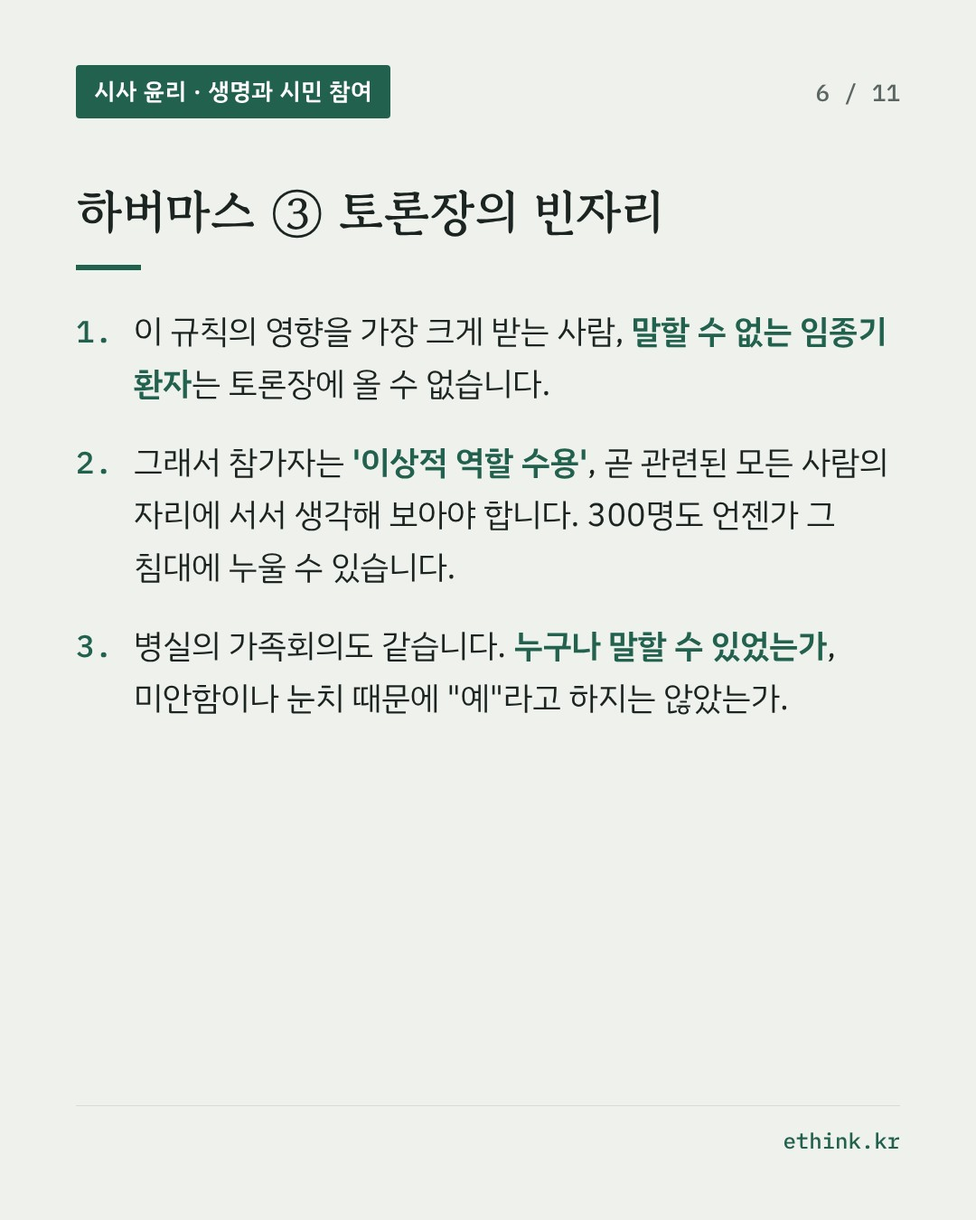
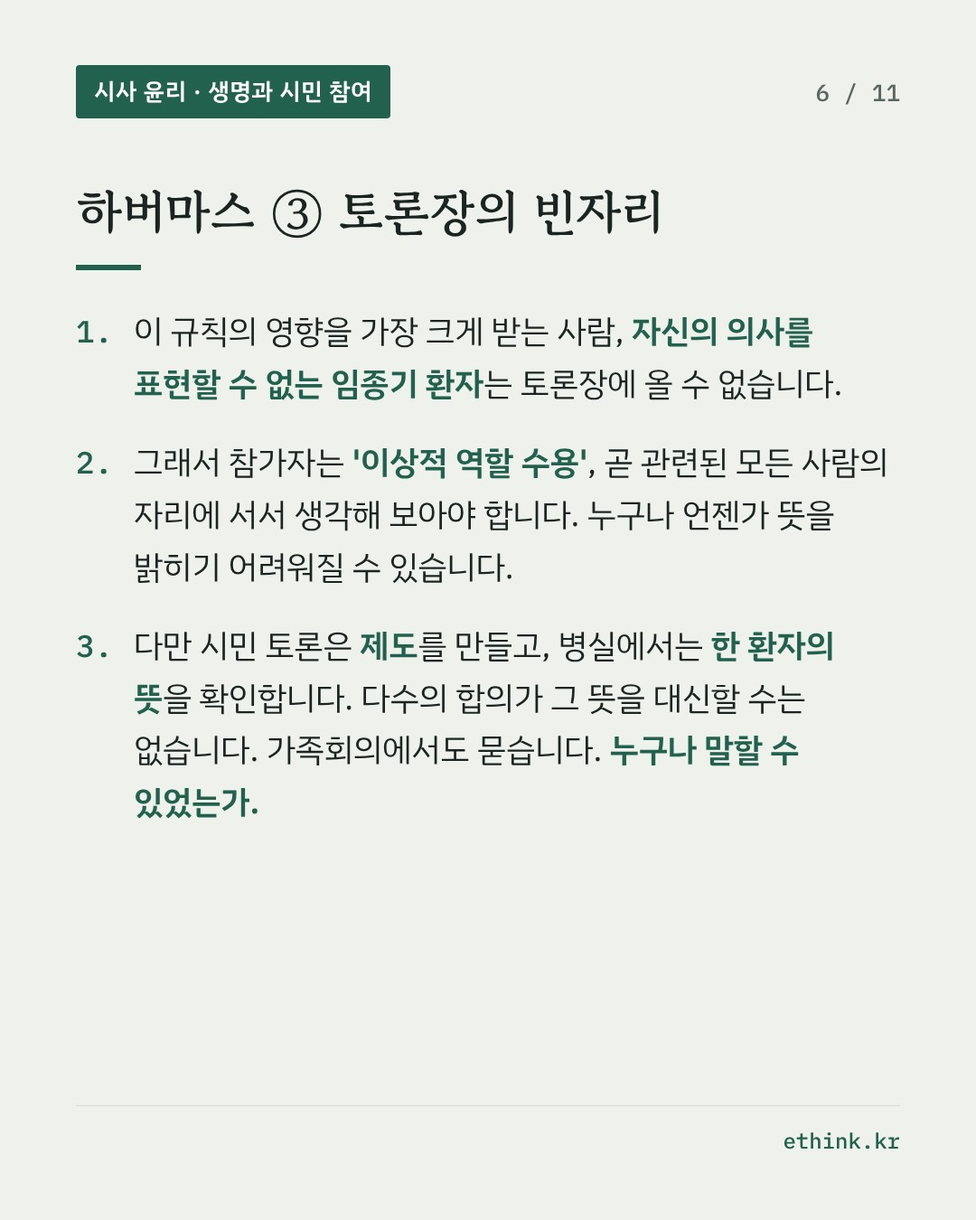
11.6 초안 수정: 검토 반영(연명의료 정의·돌봄 지속, 통계 범위·비율, 대리 결정 표현, 하버마스 기준 정리·두 층위, 장자 비유, 물고기 대화, 경험담·평가), 카드·캡션
Claude-Session: https://claude.ai/code/session_01KzEbiNcsfFZKgwJ7neneY9

diff --git a/_items/2026-11-06/1.md b/_items/2026-11-06/1.md
@@ -5,7 +5,7 @@ section: 생명과 시민 참여
 kicker: 국내 · 11월 7~8일 시민 숙의 토론
 title: 삶의 마지막 치료, 멈출 때를 누가 정해야 할까?
 question: 스스로 뜻을 밝힐 수 없는 환자의 연명의료를 멈출지, 누가 어떤 절차로 정해야 할까?
-caution: 이 숙의 토론은 11월 7~8일에 열리고, 결과는 11월 말 의료혁신위원회에 보고됩니다. 토론 결과가 곧 법이 되지는 않습니다. 정부는 연내에 제도 개선 권고안을 낼 계획입니다. 연명의료 중단은 지금 법에서 '임종 과정에 있는 환자'에게만 허용되며, 안락사나 조력사망과 다릅니다. 둘을 섞지 않습니다. 결정 근거의 비율(본인 서류 약 45%, 가족 진술·합의 약 55%)은 2026년 8월 말까지의 누적 통계입니다. 가족이 정한 경우를 '환자의 뜻이 무시된 경우'로 단정하지 않습니다. 가족 진술은 환자가 평소 밝힌 뜻을 확인하는 절차입니다. 장자의 생사관은 죽음을 대하는 태도에 관한 생각입니다. 연명의료를 멈춰야 한다는 주장의 근거로 쓰지 않습니다. 최근 가족을 떠나보낸 학생이 있을 수 있으니 사례를 고를 때 살피고, 개인 경험을 말하게 하지 않습니다.
+caution: 이 숙의 토론은 11월 7~8일에 열리고, 결과는 11월 말 의료혁신위원회에 보고됩니다. 토론 결과가 곧 법이 되지는 않습니다. 정부는 연내에 제도 개선 권고안을 낼 계획입니다. 연명의료 중단은 지금 법에서 '임종 과정에 있는 환자'에게만 허용되며, 안락사나 조력사망과 다릅니다. 둘을 섞지 않습니다. 결정 근거의 비율(본인 문서 44.8%, 가족 진술·합의 55.2%)은 2026년 8월 말까지의 누적 이행 통계이며, 이행 환자 전체를 나눈 것입니다. 연명의료를 하지 않거나 멈춰도 통증 완화, 영양분·물 공급, 산소의 단순 공급은 중단하지 않습니다. 환자를 돌보는 일 자체를 멈추는 것으로 가르치지 않습니다. 가족이 정한 경우를 '환자의 뜻이 무시된 경우'로 단정하지 않습니다. 가족 진술은 환자가 평소 밝힌 뜻을 확인하는 절차입니다. 장자의 생사관은 죽음을 대하는 태도에 관한 생각입니다. 연명의료를 멈춰야 한다는 주장의 근거로 쓰지 않습니다. 최근 가족을 떠나보낸 학생이 있을 수 있으니 사례를 고를 때 살피고, 개인 경험을 말하게 하지 않습니다.
 subjects: [『현대사회와 윤리』 · 생명 윤리와 생태 윤리, 『현대사회와 윤리』 · 평화와 공존의 윤리, 『인문학과 윤리』 · 서로 다른 의견을 어떻게 포용할 수 있을까, 『인문학과 윤리』 · 자유와 평등, 『윤리문제 탐구』 · 시민의 삶과 윤리적 탐구]
 lenses: [하버마스 · 담론 윤리와 이상적 담화 상황, 장자 · 삶과 죽음을 대하는 태도]
 sources:
@@ -19,27 +19,33 @@ sources:
     url: https://www.swn.kr/2026/10/26/%EC%97%B0%EB%AA%85%EC%9D%98%EB%A3%8C%EA%B2%B0%EC%A0%95%EC%A0%9C%EB%8F%84-%EA%B0%9C%EC%84%A0-%EB%B0%A9%ED%96%A5-%EB%85%BC%EC%9D%98%EC%83%9D%EC%95%A0-%EB%A7%90-%EC%9D%98%EB%A3%8C%ED%98%84/
   - name: 간호사신문 (10.16)
     url: https://www.nursenews.co.kr/news/articleView.html?idxno=45222
+  - name: 뉴시스 (9.10, 국립연명의료관리기관 8월 말 통계)
+    url: https://www.newsis.com/view/NISX20260910_0003784493
   - name: 와이드경제 (9.11, 국립연명의료관리기관 8월 말 통계)
     url: https://www.widedaily.com/news/articleView.html?idxno=300963
   - name: 국가법령정보센터 「호스피스ㆍ완화의료 및 임종과정에 있는 환자의 연명의료결정에 관한 법률」
     url: https://www.law.go.kr/법령/호스피스ㆍ완화의료및임종과정에있는환자의연명의료결정에관한법률
+  - name: 국립연명의료관리기관 「연명의료중단등결정 이행」 안내
+    url: https://www.lst.go.kr/userinfo/medicalperson/suspensionPending.do
 og_image: /assets/og/2026-11-06-1.jpg
 ---
 ##### 무슨 일이 있었나
 
-11월 7일과 8일, 시민 300여 명이 서울대학교 시흥캠퍼스에 모여 1박 2일 동안 삶의 마지막 의료를 토론합니다. 국무총리 직속 자문기구인 의료혁신위원회의 시민패널 숙의토론회입니다. 참가자는 지역·성별·나이별 인구 비율을 고려해 뽑았습니다. 이달 초부터 자료집과 온라인 강의로 미리 공부했고, 당일에는 전문가 발제와 질의응답을 들은 뒤 모둠별로 토의합니다. 쟁점은 세 가지입니다. 연명의료를 하지 않거나 멈출 수 있는 시점, 환자가 뜻을 밝힐 수 없을 때 대신 정할 사람, 삶의 마지막에 받고 싶은 의료와 돌봄입니다. 결과는 11월 말 위원회에 보고되고, 보건복지부는 연내에 제도 개선 권고안을 낼 계획입니다.
+11월 7일과 8일, 시민 300여 명이 서울대학교 시흥캠퍼스에 모여 1박 2일 동안 삶의 마지막 의료를 토론합니다. 국무총리 직속 자문기구인 의료혁신위원회의 시민패널 숙의토론회입니다. 참가자는 지역·성별·나이별 인구 비율을 고려해 뽑았습니다. 10월 초부터 자료집과 온라인 강의로 미리 공부했고, 당일에는 전문가 발제와 질의응답을 들은 뒤 모둠별로 토의합니다. 쟁점은 세 가지입니다. 연명의료를 하지 않거나 멈출 수 있는 시점, 환자가 뜻을 밝힐 수 없을 때 대신 정할 사람, 삶의 마지막에 받고 싶은 의료와 돌봄입니다. 논의 결과는 11월 말 의료혁신위원회에 보고됩니다. 이와 별도로 보건복지부의 연명의료결정제도 개선 특별전문위원회가 시민 의견 등을 반영해 연내에 권고안을 마련할 계획입니다.
 
-연명의료는 회복할 가능성이 없는 환자에게 심폐소생술이나 인공호흡기 같은 치료로 죽음의 시기만 늦추는 의료입니다. 한국은 2018년부터 연명의료결정법을 시행해, 임종 과정에 있는 환자가 이런 치료를 받지 않거나 멈출 수 있게 했습니다. 국립연명의료관리기관 통계로 2026년 8월 말까지 사전연명의료의향서(건강할 때 미리 써 두는 문서)를 등록한 사람은 352만 명이 넘습니다. 같은 기간 연명의료를 하지 않거나 멈춘 경우는 53만 8,749건입니다. 근거를 나누어 보면 이렇습니다. 환자가 병원에서 의사와 함께 쓴 연명의료계획서가 17만 1,207건, 미리 써 둔 의향서가 7만 27건입니다. 가족 두 명 이상이 "환자가 평소 그렇게 원했다"고 똑같이 진술한 경우가 16만 9,856건, 환자의 뜻을 알 수 없어 가족 전원이 합의한 경우가 12만 7,659건입니다. 즉, 본인이 남긴 서류로 정한 경우가 약 45%, 가족의 진술이나 합의로 정한 경우가 약 55%입니다.
+이 글에서 말하는 연명의료는 사망에 임박한 임종 과정의 환자에게 하는 심폐소생술이나 인공호흡기 착용 같은 의료입니다. 치료 효과 없이 임종 과정의 기간만 늘립니다. 한국은 2018년부터 연명의료결정법을 시행해, 이런 의료를 하지 않거나 멈출 수 있게 했습니다. 연명의료를 멈춰도 모든 의료와 돌봄을 멈추는 것은 아닙니다. 통증을 줄이는 의료와 영양분·물 공급, 산소의 단순 공급은 중단해서는 안 됩니다.
+
+연명의료를 하지 않거나 멈추는 결정은 환자가 남긴 문서에 근거하기도 하고, 가족의 진술이나 합의에 근거하기도 합니다. 국립연명의료관리기관의 2026년 8월 말 누적 이행 통계(53만 8,749건)에서 환자가 직접 쓴 문서에 근거한 경우는 약 45%였습니다. 나머지 약 55%는 가족이 환자의 뜻을 전하거나 대신 정했습니다. 세부 건수는 아래 「수업에서 쓰는 법」의 도식에 정리했습니다.
 
 ##### 왜 윤리 문제인가
 
-연명의료를 멈추는 일은 한 사람의 생명이 걸린 결정입니다. 그런데 정작 그 사람은 대개 말을 할 수 없습니다. 본인이 미리 남긴 뜻이 있으면 그 뜻을 따르면 됩니다. 문제는 서류가 없는 절반 넘는 경우입니다. 가족은 환자를 가장 잘 알지만, 슬픔과 미안함, 때로는 병원비 부담까지 함께 지고 있습니다.
+연명의료를 멈추는 일은 한 사람의 생명이 걸린 결정입니다. 그런데 정작 그 사람은 대개 자신의 뜻을 표현할 수 없습니다. 본인이 미리 남긴 뜻이 있다면 이를 먼저 확인합니다. 그 뒤에도 실제 유보·중단은 법에서 정한 의학적 판단과 확인 절차를 거쳐야 합니다. 환자가 직접 쓴 문서로 뜻을 확인하지 못하고 가족의 진술이나 결정에 기대야 할 때 어려움은 더 커집니다. 가족은 환자를 가장 잘 알지만, 슬픔과 미안함, 때로는 병원비 부담까지 함께 지고 있습니다.
 
 물음은 두 가지입니다. 첫째, 이런 규칙은 누가 어떤 방식으로 정해야 정당한가. 의사와 법률가 같은 전문가가 정할 수도 있고, 국회가 정할 수도 있습니다. 이번에는 시민 300명에게 먼저 묻습니다. 둘째, 우리는 죽음을 어떻게 받아들여야 하는가. 치료를 멈출지 말지 정하는 일 밑에는 죽음을 대하는 태도가 깔려 있습니다.
 
 첫째 물음은 독일 철학자 하버마스의 담론 윤리로 읽어 봅니다. 둘째 물음은 아내의 죽음 앞에서 노래를 부른 장자의 이야기로 읽어 봅니다.
 
-##### 하버마스로 읽기: 모두가 말할 수 있어야 옳은 규칙이 된다
+##### 하버마스로 읽기: 영향받는 모두의 관점을 듣고 근거를 따져야 한다
 
 하버마스(1929~2026)는 독일의 철학자입니다. 그는 무엇이 옳은 규범인지 한 사람이 머릿속에서 혼자 정할 수 없다고 보았습니다. 그 규범의 영향을 받는 사람들이 함께 따지고 합의해야 합니다. 이렇게 서로 근거를 대며 따지는 대화를 그는 '담론'이라 불렀습니다. 그렇다면 담론에는 누가 들어올 수 있을까요?
 
@@ -50,7 +56,7 @@ og_image: /assets/og/2026-11-06-1.jpg
 <figcaption><span class="who">하버마스</span><span class="from">출처: 하버마스, 『담론 윤리의 해명』 · 『현대사회와 윤리』 교과서</span></figcaption>
 </figure>
 
-누구나 들어올 수 있고, 무엇이든 말할 수 있고, 누구의 말이든 따져 물을 수 있어야 합니다. 이 조건이 깨지면 어떻게 될까요?
+말할 수 있는 사람은 누구나 들어와 자기 주장과 바람, 의문을 내놓고, 서로 근거를 물을 수 있어야 합니다. 이 조건이 깨지면 어떻게 될까요?
 
 <figure class="src">
 <blockquote>
@@ -68,13 +74,13 @@ og_image: /assets/og/2026-11-06-1.jpg
 <figcaption><span class="from">출처: 『인문학과 윤리』(길벗) 119쪽</span></figcaption>
 </figure>
 
-교과서는 이 기준이 지켜질 때 서로 대립하는 의견들이 공론장에 나오고, 합리적인 논의로 합의에 이르고, 참여한 사람들이 그 결과를 받아들일 수 있다고 풀이합니다.
+교과서는 이 기준이 지켜질 때 서로 대립하는 의견들이 공론장에 나오고, 합리적인 논의로 합의에 이르고, 참여한 사람들이 그 결과를 받아들일 수 있다고 풀이합니다. 이 네 기준은 교과서가 하버마스의 생각을 쉽게 풀어 정리한 것입니다(아래 「원문 더 읽기」의 네 조건과 구성이 조금 다릅니다). 이 글에서는 둘을 묶어 이렇게 묻겠습니다. 서로 이해할 수 있게 말했는가, 사실을 확인했는가, 자기 생각을 진실하게 밝혔는가, 누구나 강요 없이 질문하고 반박할 수 있었는가.
 
-이 생각을 이번 숙의 토론에 대어 봅니다. 참가자를 인구 비율에 맞춰 뽑은 것은 '누구나 들어올 수 있어야 한다'는 조건에 다가가려는 방법입니다. 미리 자료집과 강의로 공부하게 한 것은 둘째 기준(내용이 참이어야 한다)과 이어집니다. 지금 법이 무엇을 허용하는지 모르면 틀린 사실 위에서 토론하게 됩니다. 의사와 시민이 묻고 답하는 방식은 넷째 기준(평등하고 수평적인 관계)을 시험합니다. 전문가의 말이 시민의 질문을 누르면 담론은 강의가 됩니다.
+이 생각을 이번 숙의 토론에 대어 봅니다. 참가자를 인구 비율에 맞춰 뽑은 것은 다양한 시민의 관점을 담으려는 장치입니다. 미리 자료집과 강의로 공부하게 한 것은 '사실을 확인했는가'와 이어집니다. 지금 법이 무엇을 허용하는지 모르면 틀린 사실 위에서 토론하게 됩니다. 다만 자료를 준 것만으로 충분하지 않습니다. 자료가 정확하고 균형 잡혔는지, 참가자가 자료에 질문할 수 있었는지도 따져야 합니다. 의사와 시민이 묻고 답하는 방식은 '평등하고 수평적인 관계'를 시험합니다. 전문가의 설명을 시민이 질문하고 검토할 수 없다면 숙의의 조건은 약해집니다.
 
-그런데 하버마스의 잣대로 보면 이 토론에는 빈자리가 하나 있습니다. 이 규칙의 영향을 가장 크게 받는 사람, 곧 임종을 앞두고 말을 할 수 없는 환자입니다. 그는 토론장에 올 수 없습니다. 그렇다면 그의 몫은 누가 말할까요? 다른 출판사의 『인문학과 윤리』 교과서는 하버마스의 '이상적 역할 수용'을 소개합니다. 담론에 참여한 사람이 관련된 모든 사람의 자리에 서서 생각해 보는 일입니다. 300명의 시민은 지금 건강하지만 언젠가 그 침대에 누울 수 있습니다. 숙의 토론이 정당하려면 참가자가 그 자리에 서 보아야 합니다.
+그런데 하버마스의 잣대로 보면 이 토론에는 빈자리가 하나 있습니다. 이 규칙의 영향을 가장 크게 받는 사람, 곧 임종을 앞두고 자신의 의사를 표현할 수 없는 환자입니다. 그는 토론장에 올 수 없습니다. 그렇다면 그의 몫은 누가 말할까요? 다른 출판사의 『인문학과 윤리』 교과서는 하버마스의 '이상적 역할 수용'을 소개합니다. 담론에 참여한 사람이 관련된 모든 사람의 자리에 서서 생각해 보는 일입니다. 참가자 누구나 언젠가 자신의 뜻을 표현하기 어려워질 수 있습니다. 숙의 토론이 정당하려면 참가자가 그 자리에 서 보아야 합니다.
 
-같은 물음은 병실 안에서도 생깁니다. 가족 전원이 합의해 연명의료를 멈춘 12만 7,659건은 모두 환자가 빠진 대화입니다. 가족 가운데 누군가는 반대 의견을 꺼내지 못했을 수도 있습니다. 누군가는 병원비 걱정을 차마 말하지 못했을 수도 있습니다. 하버마스의 기준은 이 작은 대화에도 그대로 적용됩니다. 누구나 말할 수 있었는가. 미안함이나 눈치 때문에 "예"라고 하지는 않았는가.
+같은 물음은 병실 안에서도 생깁니다. 다만 두 자리는 층위가 다릅니다. 시민 토론은 모두에게 적용할 제도를 어떻게 만들지 논의합니다. 병실에서는 그 제도 안에서 한 환자의 뜻과 이익을 확인합니다. 시민 다수의 합의가 개별 환자의 뜻을 대신할 수는 없습니다. 환자의 뜻을 확인할 수 없어 가족이 대신 정할 때 환자는 최종 결정에 직접 참여하기 어렵습니다. 그래서 가족의 합의가 환자에게 가장 이로운 결정인지, 가족의 부담이 환자의 뜻을 대신하고 있지는 않은지 살펴야 합니다. 하버마스의 기준은 이 작은 대화에도 적용됩니다. 가족 누구나 말할 수 있었는가. 미안함이나 눈치 때문에 "예"라고 하지는 않았는가.
 
 <details class="more-read">
 <summary>원문 더 읽기: 이상적 담화 상황의 네 조건</summary>
@@ -89,14 +95,14 @@ og_image: /assets/og/2026-11-06-1.jpg
 <figcaption><span class="who">하버마스</span><span class="from">출처: 하버마스, 『의사소통 행위 이론』 · 『현대사회와 윤리』 교과서</span></figcaption>
 </figure>
 
-<p>"더 나은 주장에 근거하여 도달한 합의"라는 말에 주목합니다. 목소리가 크거나 사람이 많은 쪽이 이기는 것이 아닙니다. 더 나은 근거를 댄 쪽으로 합의가 모여야 합니다. 그래서 숙의 토론은 투표와 다릅니다. 투표는 생각을 세지만, 숙의는 생각을 바꿀 기회를 줍니다.</p>
+<p>"더 나은 주장에 근거하여 도달한 합의"라는 말에 주목합니다. 목소리가 크거나 사람이 많은 쪽이 이기는 것이 아닙니다. 더 나은 근거를 댄 쪽으로 합의가 모여야 합니다. 숙의는 충분히 듣고 생각을 바꿀 기회를 주는 과정입니다. 그 뒤에 투표로 의견을 모을 수도 있습니다.</p>
 
 </div>
 </details>
 
 ##### 장자로 읽기: 아내를 잃고 동이를 두드리다
 
-하버마스가 '누가 정하는가'를 묻는다면, 장자(기원전 4세기 무렵)는 '무엇을 받아들일 것인가'를 묻습니다. 장자는 중국 전국 시대의 도가 사상가입니다. 『장자』 「지락」 편에 그의 아내가 죽었을 때의 이야기가 나옵니다. 친구 혜자(혜시)가 문상을 갔다가 놀랍니다.
+하버마스가 '누가 정하는가'를 묻는다면, 장자(기원전 4세기 무렵)는 '무엇을 받아들일 것인가'를 묻습니다. 장자는 중국 전국 시대의 도가 사상가입니다. 『장자』 「지락」 편에 실린 이야기에서 장자의 아내가 죽습니다. 친구 혜자(혜시)가 문상을 갔다가 놀랍니다.
 
 <figure class="src">
 <blockquote>
@@ -114,7 +120,7 @@ og_image: /assets/og/2026-11-06-1.jpg
 <figcaption><span class="who">장자</span><span class="from">출처: 장자, 『장자』(오강남 풀이, 현암사)</span></figcaption>
 </figure>
 
-먼저 장자도 슬퍼했습니다. "나라고 어찌 슬퍼하는 마음이 없었겠나?" 장자는 슬픔을 부정하지 않습니다. 다음은 생각의 전환입니다. 삶은 기(氣)가 모여 생긴 것이고, 죽음은 그것이 다시 변한 것입니다. 봄이 가고 여름이 오는 것과 같습니다. 그렇다면 겨울이 왔다고 울며 붙잡을 일이 아닙니다. 『현대사회와 윤리』 교과서는 『장자』의 다른 대목을 이렇게 옮깁니다.
+먼저 장자도 슬퍼했습니다. "나라고 어찌 슬퍼하는 마음이 없었겠나?" 장자는 슬픔을 부정하지 않습니다. 다음은 생각의 전환입니다. 삶은 기(氣)가 모여 생긴 것이고, 죽음은 그것이 다시 변한 것입니다. 봄이 가고 여름이 오는 것과 같습니다. 『현대사회와 윤리』 교과서는 『장자』의 다른 대목을 이렇게 옮깁니다.
 
 <figure class="src">
 <blockquote>
@@ -134,7 +140,7 @@ og_image: /assets/og/2026-11-06-1.jpg
 
 "인위로 자연을 조장하지 않는다." 조장(助長)은 벼가 빨리 자라라고 싹을 뽑아 올리는 일에서 나온 말입니다. 사람의 힘으로 자연의 흐름을 억지로 바꾸려 하지 않는다는 뜻입니다.
 
-이 생각을 연명의료에 대어 봅니다. 회복할 수 없는 환자에게 기계로 숨을 붙여 두는 일은 겨울을 억지로 늦추는 일과 닮았습니다. 하지만 장자의 말을 "그러니 치료를 멈춰야 한다"는 결론으로 바로 옮기면 안 됩니다. 장자는 규칙을 만든 사람이 아닙니다. 그가 말한 것은 죽음을 대하는 마음입니다. 그런데 이 마음은 병실에서 중요합니다. 치료를 멈추자고 결정한 가족은 "끝까지 해 드리지 못했다"는 미안함을 오래 품을 수 있습니다. 장자의 이야기는 죽음을 받아들이는 일이 사랑을 버리는 일이 아니라고 말해 줍니다. 장자는 슬퍼했고, 그다음에 노래했습니다.
+이 생각을 연명의료에 대어 봅니다. 장자는 삶과 죽음을 계절처럼 이어지는 변화로 봅니다. 이 관점은 죽음을 오직 피해야 할 실패로만 여기는 태도를 돌아보게 합니다. 다만 오늘날 어떤 의료를 계속하거나 멈출지는 환자의 뜻, 치료의 효과, 법적 절차를 함께 살펴 정합니다. 이 이야기는 그 결정을 위한 규칙을 내놓지 않습니다. 죽음을 대하는 마음을 돌아보게 할 뿐입니다. 그런데 이 마음은 병실에서 중요합니다. 치료를 멈추자고 결정한 가족은 "끝까지 해 드리지 못했다"는 미안함을 오래 품을 수 있습니다. 이 이야기를 오늘의 상황에 비추어 읽으면, 죽음을 받아들이는 일이 곧 사랑을 버리는 일은 아니라는 생각을 해 볼 수 있습니다. 이야기 속 장자는 슬퍼했고, 그다음에 노래했습니다.
 
 <details class="more-read">
 <summary>원문 더 읽기: 물고기가 아닌데 어찌 물고기의 즐거움을 아는가</summary>
@@ -149,7 +155,7 @@ og_image: /assets/og/2026-11-06-1.jpg
 <figcaption><span class="who">장자</span><span class="from">출처: 장자, 『장자』(오강남 풀이, 현암사)</span></figcaption>
 </figure>
 
-<p>이 대화는 연명의료의 둘째 쟁점(대신 정할 사람)과 닿아 있습니다. 가족은 환자가 아닙니다. 그런데 "평소 그렇게 원했다"고 말할 수 있을까요? 혜자처럼 보면 남의 마음은 끝내 알 수 없습니다. 장자처럼 보면 함께 살아온 사람은 남의 마음을 알 수 있습니다. 법이 가족 두 명 이상의 '일치하는 진술'을 요구하는 것은 혜자의 의심과 장자의 믿음 사이에서 길을 찾으려는 방법이라 할 수 있습니다.</p>
+<p>이 대화는 다른 사람의 마음을 안다고 말할 때 무엇을 근거로 삼는지 묻게 합니다. 환자의 뜻을 전하는 가족에게도 같은 질문을 던질 수 있습니다. "내가 바라는 결정인가, 환자가 실제로 밝혔던 뜻인가?" 이 글의 비유로 읽으면, 가족 두 명 이상의 일치하는 진술을 확인하는 절차는 이 차이를 신중하게 살피려는 장치로 볼 수 있습니다.</p>
 
 </div>
 </details>
@@ -159,24 +165,24 @@ og_image: /assets/og/2026-11-06-1.jpg
 이 사례에서는 하버마스로 "규칙을 어떻게 정할 것인가"를, 장자로 "죽음을 어떻게 받아들일 것인가"를 다룹니다. 연명의료를 멈추는 것이 옳은지 그른지 고르게 하지 않습니다. 결정하는 절차와 그 절차가 놓치는 사람을 따지게 합니다.
 
 <figure class="fig">
-<p class="fig-title">환자가 뜻을 밝힐 수 없을 때, 연명의료 결정의 근거(2026년 8월 말 누적 53만 8,749건)</p>
+<p class="fig-title">연명의료 유보·중단은 어떤 근거로 이루어졌을까?(2026년 8월 말 누적 이행 53만 8,749건)</p>
 <div class="scale scale-three">
-<div class="scale-cell scale-cell-strong"><p class="scale-head">본인이 남긴 서류 · 약 45%</p><p>연명의료계획서 17만 1,207건, 사전연명의료의향서 7만 27건</p><p class="scale-ex">환자가 의사와 함께 쓰거나, 건강할 때 미리 써 둔 문서</p></div>
-<div class="scale-cell"><p class="scale-head">가족이 전한 환자의 뜻 · 약 32%</p><p>가족 두 명 이상의 일치하는 진술 16만 9,856건</p><p class="scale-ex">환자가 평소 일관되게 밝힌 뜻을 가족이 확인한다. 다른 가족이 다르게 말하면 쓸 수 없다</p></div>
-<div class="scale-cell"><p class="scale-head">가족 전원의 합의 · 약 24%</p><p>환자의 뜻을 알 수 없을 때 가족 전원이 합의 12만 7,659건</p><p class="scale-ex">환자 본인의 목소리가 빠진 결정. 담당의사와 전문의 한 명이 함께 확인한다</p></div>
+<div class="scale-cell scale-cell-strong"><p class="scale-head">환자가 직접 쓴 문서 · 44.8%</p><p>연명의료계획서 17만 1,207건, 사전연명의료의향서 7만 27건</p><p class="scale-ex">환자가 병원에서 의사와 함께 쓴 계획서, 또는 19세 이상인 사람이 임종 과정에 대비해 미리 써 둔 의향서</p></div>
+<div class="scale-cell"><p class="scale-head">가족이 전한 환자의 뜻 · 31.5%</p><p>가족 두 명 이상의 일치하는 진술 16만 9,856건</p><p class="scale-ex">환자가 평소 일관되게 밝힌 뜻을 가족이 확인한다. 다른 가족이 다르게 말하면 쓸 수 없다</p></div>
+<div class="scale-cell"><p class="scale-head">가족 전원의 합의 · 23.7%</p><p>가족 전원 합의 12만 7,659건</p><p class="scale-ex">환자의 뜻을 직접 확인하기 어려워 가족이 대신하는 결정. 담당의사와 전문의 한 명이 함께 확인한다</p></div>
 </div>
-<p class="fig-note">근거: 국립연명의료관리기관 통계(와이드경제 9.11 보도). 백분율은 이 글에서 계산했습니다. 세 경우 모두 임종 과정에 있다는 의사의 판단이 먼저 있어야 합니다.</p>
+<p class="fig-note">근거: 국립연명의료관리기관 통계(뉴시스·와이드경제 9.11 보도). 항목명은 보도를 따랐고, 백분율은 이 글에서 계산했습니다. 미성년 환자는 친권자가 정하는 절차가 따로 있어, 가족 전원 합의 항목의 세부 구성은 기관 원표로 다시 확인해야 합니다. 어느 경우든 임종 과정에 있다는 의학적 판단이 먼저 있어야 하고, 통증 완화와 영양분·물·산소 공급은 계속합니다.</p>
 </figure>
 
 <figure class="fig">
 <p class="fig-title">수업 흐름</p>
 <ol class="flow">
 <li><span class="flow-step">사실 정리하기</span><br>
-<span class="flow-desc">연명의료와 안락사가 어떻게 다른지, 지금 법에서 누가 어떤 방법으로 결정하는지 정리한다. 결정 근거의 세 가지를 도식으로 확인한다</span></li>
+<span class="flow-desc">연명의료와 안락사가 어떻게 다른지, 연명의료를 멈춰도 계속하는 돌봄(통증 완화, 영양분·물·산소 공급)은 무엇인지, 지금 법에서 누가 어떤 방법으로 결정하는지 정리한다. 결정 근거의 세 가지를 도식으로 확인한다</span></li>
 <li><span class="flow-step">하버마스로 읽기</span><br>
 <span class="flow-desc">담론에 참여할 자격과 이상적 담화 상황의 조건을 정리한다. 이번 숙의 토론이 조건을 어떻게 채우려 했는지(인구 비율에 맞춘 선발, 사전 학습, 전문가 질의응답) 찾아본다</span></li>
 <li><span class="flow-step">빈자리 찾기</span><br>
-<span class="flow-desc">토론장에 올 수 없는 사람(말할 수 없는 환자, 아직 태어나지 않은 미래의 환자)을 적는다. 그들의 자리에 서 보는 '이상적 역할 수용'을 해 본다</span></li>
+<span class="flow-desc">토론장에 올 수 없는 사람(자신의 의사를 표현할 수 없는 환자, 아직 태어나지 않은 미래의 환자)을 적는다. 그들의 자리에 서 보는 '이상적 역할 수용'을 해 본다</span></li>
 <li><span class="flow-step">장자로 읽기</span><br>
 <span class="flow-desc">아내를 잃은 장자의 이야기에서 '슬픔'과 '받아들임'을 나누어 적는다. 장자의 생각이 연명의료 결정을 정해 주지는 않지만, 결정한 가족에게 무엇을 말해 줄 수 있는지 생각한다</span></li>
 <li><span class="flow-step">작은 숙의 토론</span><br>
@@ -188,13 +194,13 @@ og_image: /assets/og/2026-11-06-1.jpg
 <colgroup><col style="width:26%"><col style="width:37%"><col style="width:37%"></colgroup>
 <thead><tr><th>쟁점</th><th>나의 의견과 근거</th><th>우리 토론은 하버마스의 기준을 지켰나</th></tr></thead>
 <tbody>
-<tr class="tbl-ex"><td>환자의 뜻을 알 수 없을 때 누가 대신 정할까(가족 전원, 가족 대표, 병원 윤리위원회 등)</td><td>예: 가족 전원 합의를 유지하되, 의료진이 가족 한 사람씩 따로 의견을 듣는 절차를 더한다. 눈치 때문에 반대를 말하지 못하는 가족이 있을 수 있다</td><td>예: 모든 모둠원이 한 번 이상 말했다. 다만 한 사람이 "우리 할머니는…"으로 시작한 경험담 앞에서 다른 의견을 꺼내기 어려웠다</td></tr>
+<tr class="tbl-ex"><td>환자의 뜻을 알 수 없을 때 누가 대신 정할까(가족 전원, 가족 대표, 병원 윤리위원회 등)</td><td>예: 가족 전원 합의를 유지하되, 의료진이 가족 한 사람씩 따로 의견을 듣는 절차를 더한다. 눈치 때문에 반대를 말하지 못하는 가족이 있을 수 있다</td><td>예: 모든 모둠원이 한 번 이상 말했다. 한 사람이 가족의 경험을 나누었고, 우리는 그 경험을 부정하지 않으면서 다른 상황에서도 같은 규칙을 적용할 수 있을지 질문했다</td></tr>
 <tr><td>연명의료를 멈출 수 있는 시점을 지금처럼 '임종 과정'으로 둘까</td><td></td><td></td></tr>
-<tr><td>사전연명의료의향서를 몇 살부터, 어떻게 쓰게 할까</td><td></td><td></td></tr>
+<tr><td>사전연명의료의향서를 지금처럼 19세 이상이 쓰게 할까, 어떻게 알릴까</td><td></td><td></td></tr>
 </tbody>
 </table>
 
-첫 줄은 예시로 보여 주고, 나머지는 모둠이 채웁니다. 토론에 앞서 "개인이나 가족의 경험을 꼭 말하지 않아도 된다"고 먼저 알려 줍니다. 경험담은 말하는 사람에게도 듣는 사람에게도 무겁습니다. 하버마스의 기준으로 보면 반박하기 어려운 말이 되기도 합니다. 평가는 결론이 아니라 근거와 절차를 봅니다. 어떤 결론에 이르렀는지는 점수에 넣지 않습니다.
+첫 줄은 예시로 보여 주고, 나머지는 모둠이 채웁니다. 토론에 앞서 "개인이나 가족의 경험을 꼭 말하지 않아도 된다"고 먼저 알려 줍니다. 누군가 경험을 나누었다면 그 경험과 감정을 존중하고, 그 경험에서 어떤 제도적 결론을 끌어낼지는 따로 논의합니다. 평가는 특정 입장을 골랐는지가 아니라 사실의 정확성, 근거와 반론을 얼마나 검토했는지를 봅니다.
 
 이 사례로 탐구 보고서를 쓰려는 학생에게는 세 가지 주제를 권합니다. 첫째, 이번 숙의 토론의 결과(11월 말 보고)를 찾아 하버마스의 기준으로 평가하는 주제입니다. 둘째, 공론화로 정책을 정한 다른 사례(신고리 5·6호기 공론화, 대입 제도 개편 공론화)와 비교하는 주제입니다. 셋째, 장자와 에피쿠로스, 플라톤의 죽음관을 비교하고 연명의료 결정에 각각 무엇을 말해 줄 수 있는지 정리하는 주제입니다.
 
